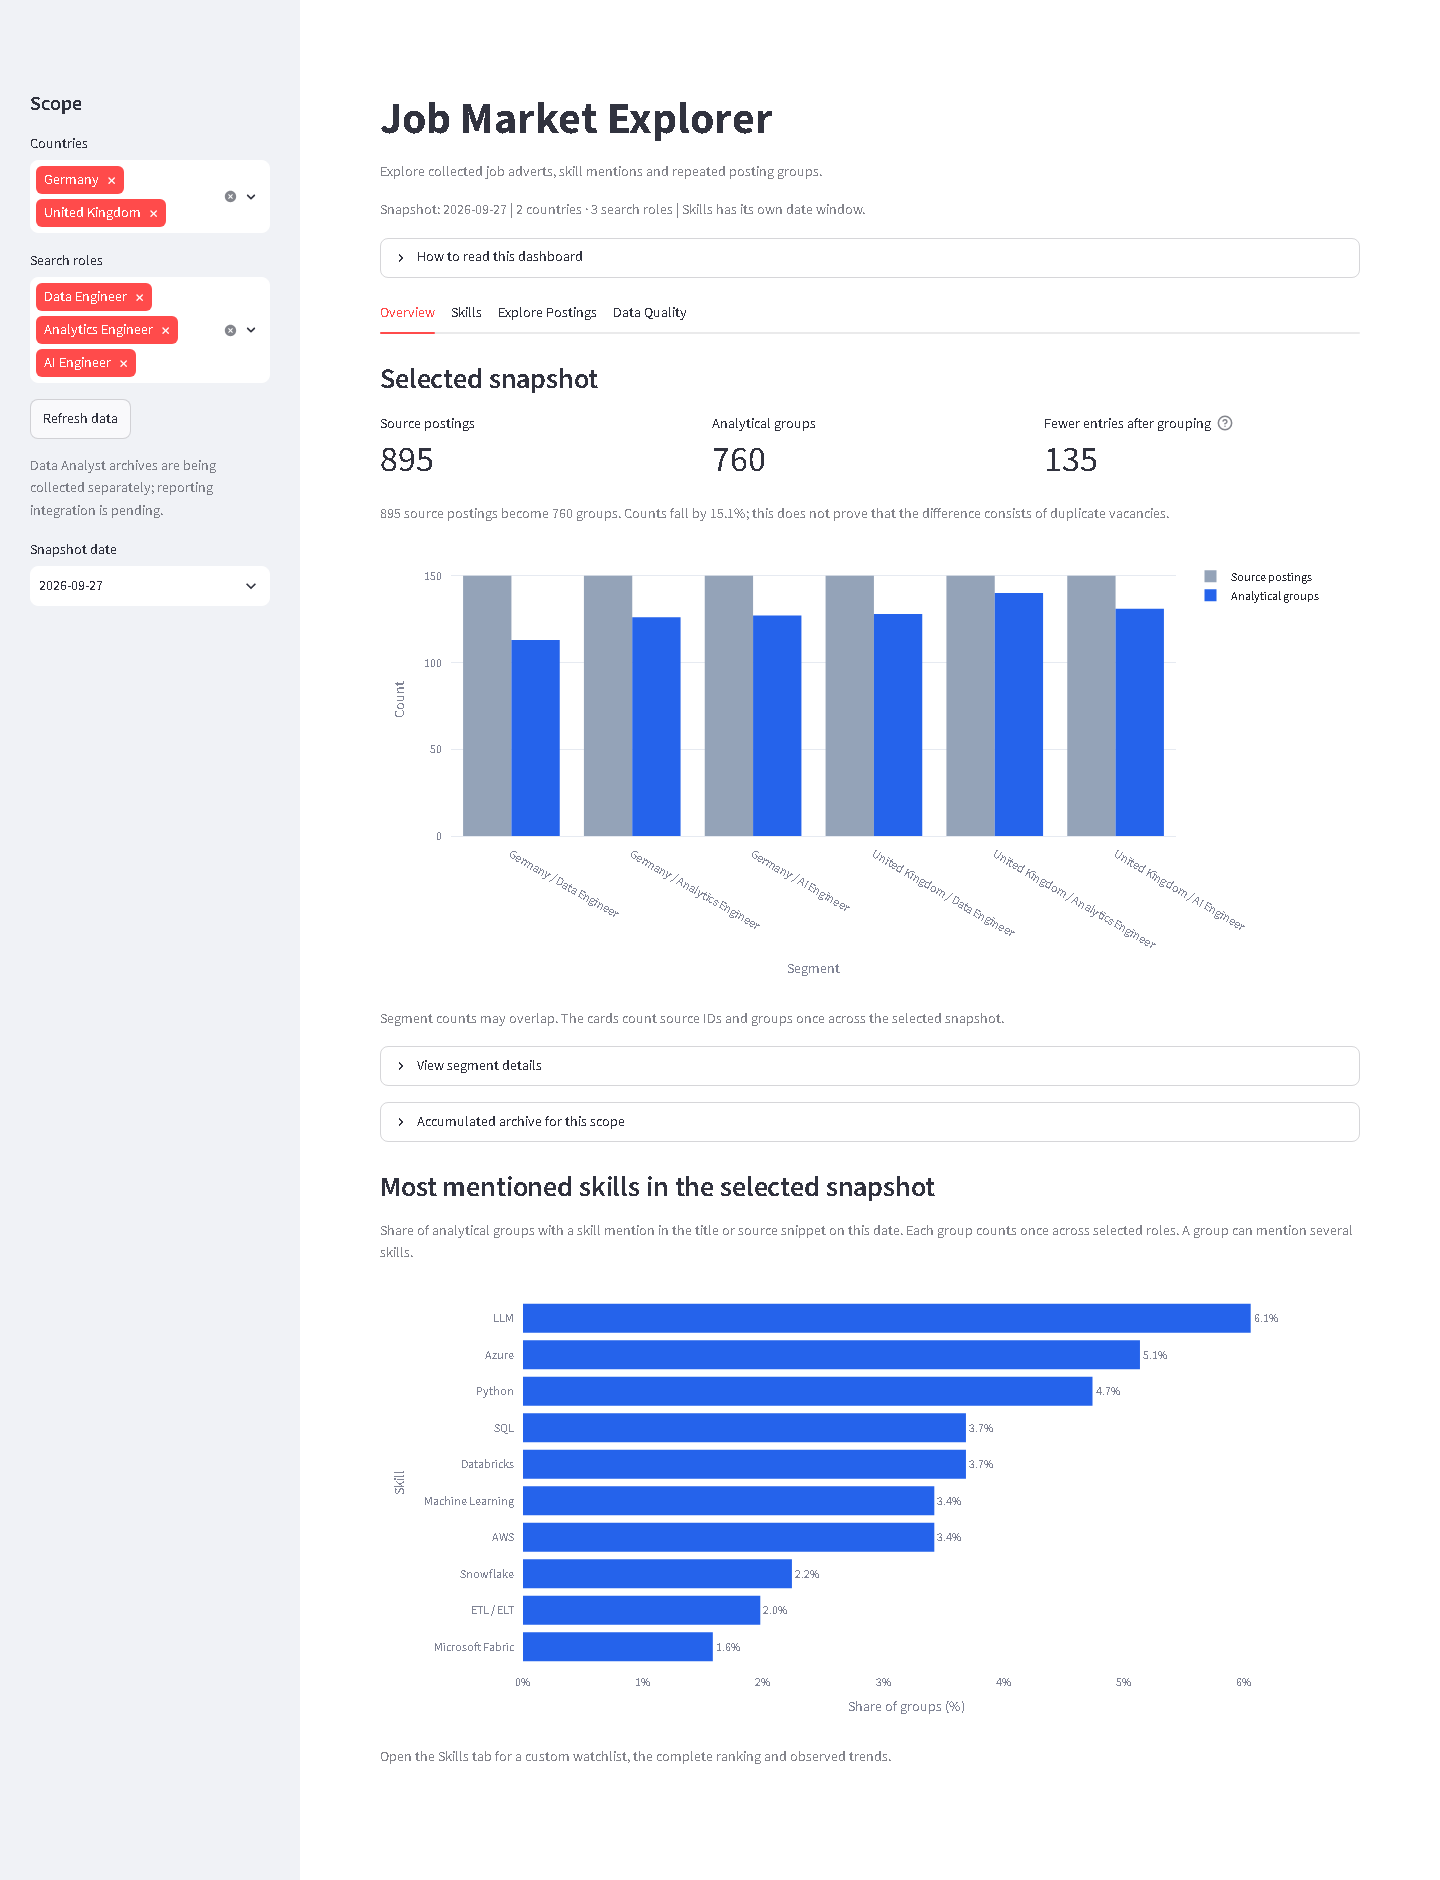
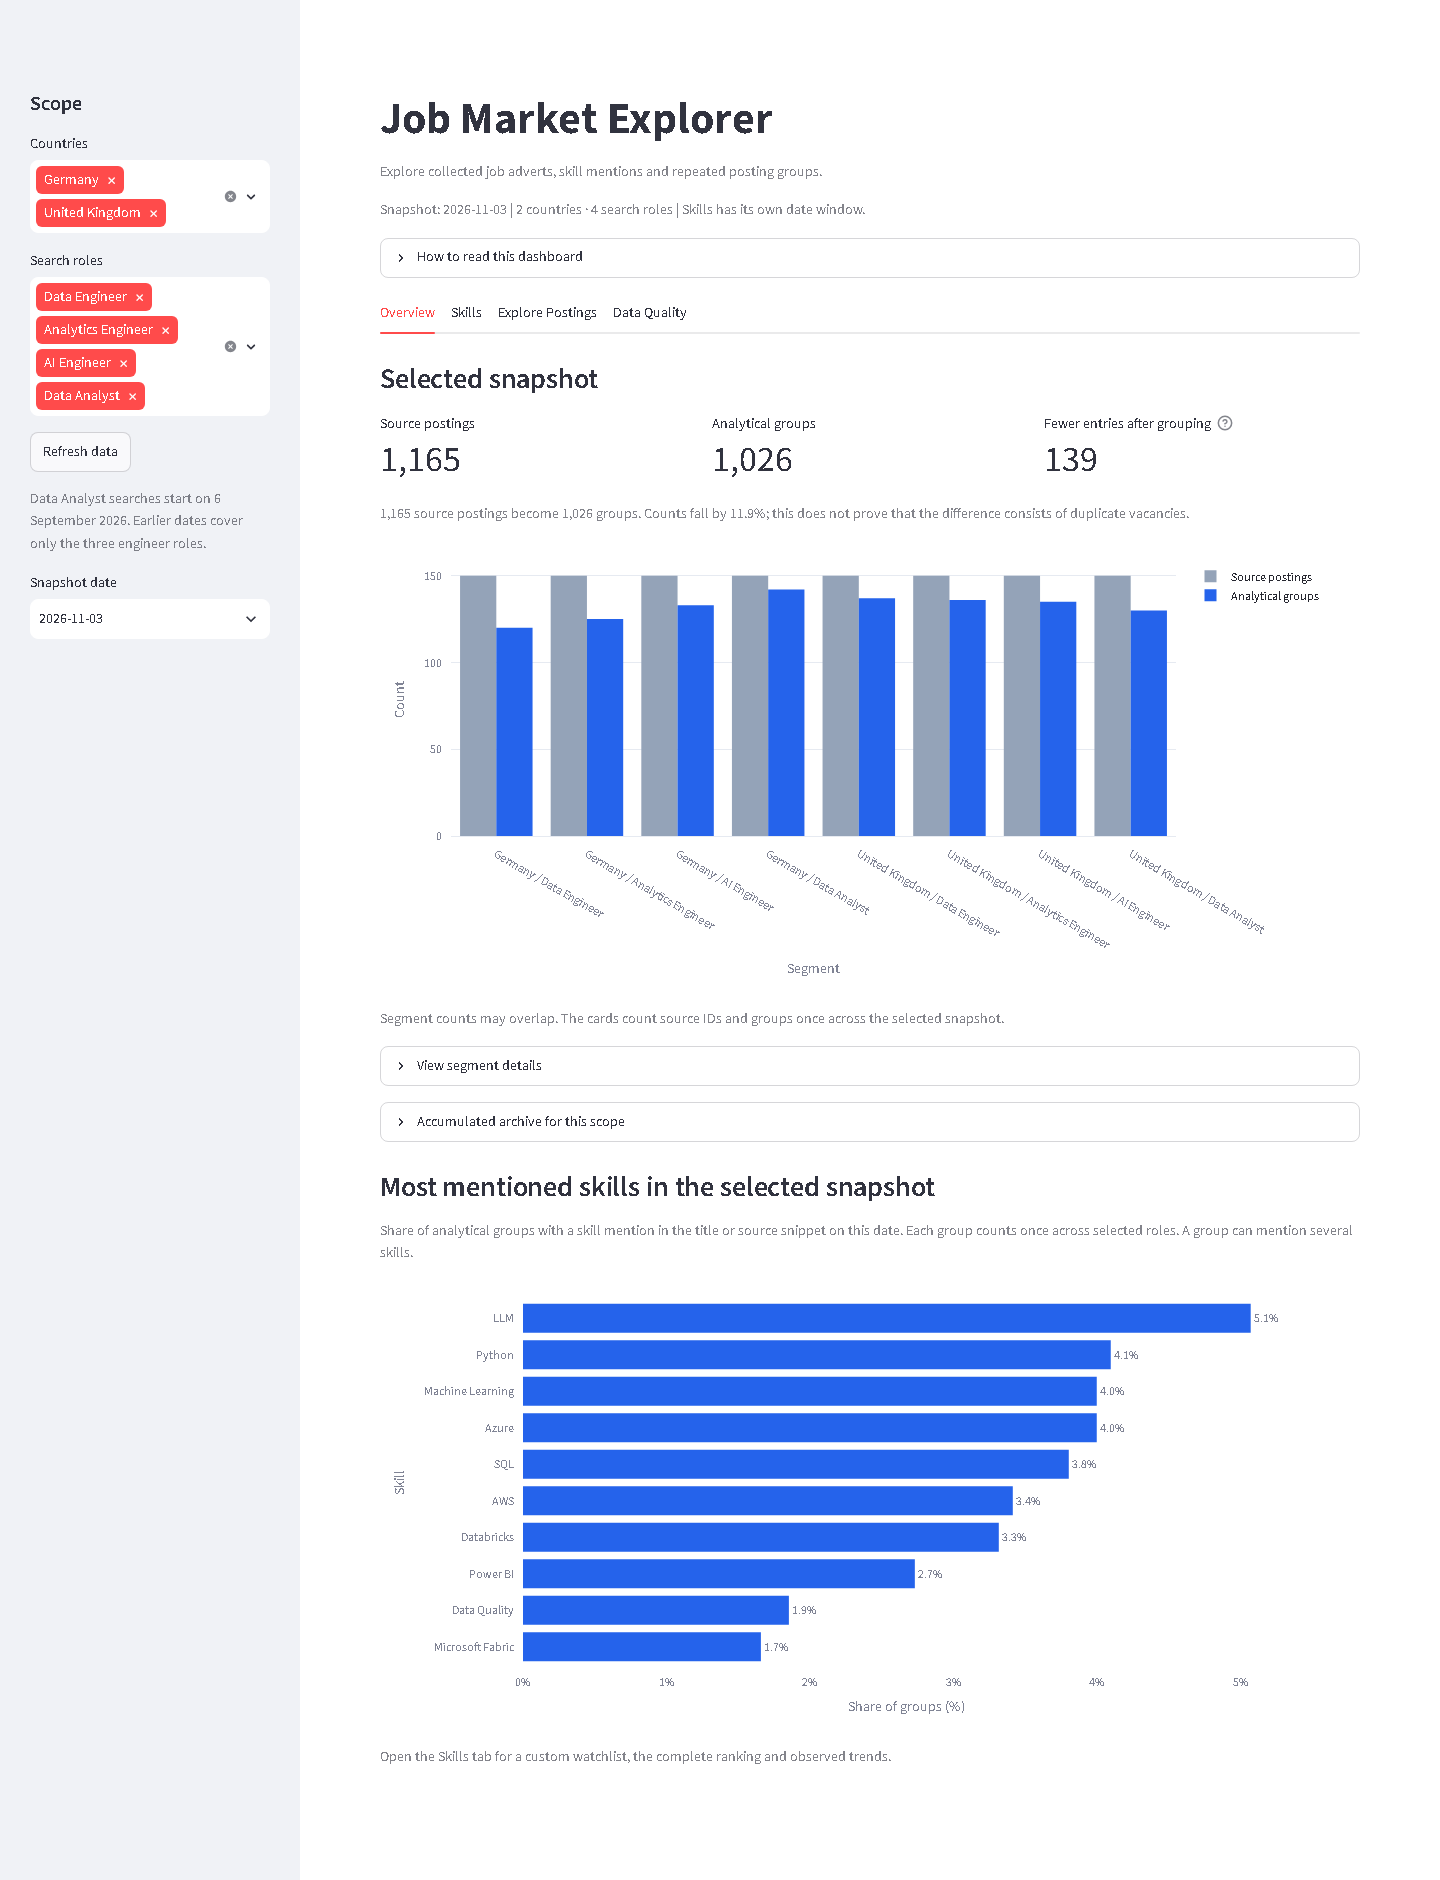
Add Data Analyst to the pipeline and dashboard

diff --git a/dashboard/check_parity.py b/dashboard/check_parity.py
@@ -10,14 +10,16 @@ import queries
 
 # Compares the SQL in queries.py with the pandas logic the dashboard used before
 # it moved to the star schema. The reference functions are copied from that
-# version of app.py. Skill labels come from dim_skills, so the corrected labels
-# do not change the tie-break order. Run from the repository root after dbt build:
+# version of app.py, with Data Analyst added to the role lists when that role joined
+# the dashboard. Skill labels come from dim_skills, so the corrected labels do not
+# change the tie-break order. Run from the repository root after dbt build:
 #   python dashboard\check_parity.py
 COUNTRIES = {"de": "Germany", "gb": "United Kingdom"}
 ROLES = {
     "data_engineer": "Data Engineer",
     "analytics_engineer": "Analytics Engineer",
     "ai_engineer": "AI Engineer",
+    "data_analyst": "Data Analyst",
 }
 POSTING_COLUMNS = ["source", "job_id", "job_title", "company_name", "location", "posted_date", "redirect_url"]
 QUALITY_COLUMNS = [
@@ -39,7 +41,7 @@ OBSERVATIONS_SQL = """
     join analytics.stg_job_postings p using (source, job_id)
     join analytics.int_job_posting_groups g using (source, job_id)
     where o.search_country in ('de', 'gb')
-      and o.search_role in ('data_engineer', 'analytics_engineer', 'ai_engineer')
+      and o.search_role in ('data_engineer', 'analytics_engineer', 'ai_engineer', 'data_analyst')
 """
 
 

diff --git a/src/load/run_postgres_load.py b/src/load/run_postgres_load.py
@@ -10,6 +10,9 @@ from jsonl_reader import read_jsonl
 from postgres_loader import insert_job_posting_observations, insert_job_postings
 
 
+ROLES = ["data_engineer", "analytics_engineer", "ai_engineer", "data_analyst"]
+
+
 def run_load(file_path: str | Path, search_role: str, search_country: str, extract_date: date) -> None:
     raw_jobs = read_jsonl(file_path)
 
@@ -49,10 +52,13 @@ def main(argv=None) -> None:
                         help="Archive date in YYYY-MM-DD format (default: today).")
     parser.add_argument("--check-only", action="store_true",
                         help="Validate all expected archives without writing to PostgreSQL.")
+    # Dates before 2026-09-06 have no Data Analyst archives; pass the other three roles to replay them.
+    parser.add_argument("--roles", nargs="+", choices=ROLES, default=ROLES,
+                        help="Roles to load (default: all four).")
     args = parser.parse_args(argv)
 
     countries = ["de", "gb"]
-    roles = ["data_engineer", "analytics_engineer", "ai_engineer"]
+    roles = list(dict.fromkeys(args.roles))
     batch = [
         (country, role, Path("data/raw/adzuna") / f"country={country}"
          / f"search_role={role}" / f"date={args.extract_date.isoformat()}" / "jobs.jsonl")

diff --git a/src/extract/run_adzuna_extract.py b/src/extract/run_adzuna_extract.py
@@ -87,9 +87,8 @@ def run_extract(country: str, search_role: str, max_pages: int = 2, results_per_
 
 def main(argv=None) -> None:
     parser = argparse.ArgumentParser(description="Collect selected job search segments.")
-    parser.add_argument("--roles", nargs="+", choices=list(SEARCH_ROLES),
-                        default=["data_engineer", "analytics_engineer", "ai_engineer"],
-                        help="Search roles to collect. Data Analyst is opt-in during archive-only collection.")
+    parser.add_argument("--roles", nargs="+", choices=list(SEARCH_ROLES), default=list(SEARCH_ROLES),
+                        help="Search roles to collect (default: all four).")
     parser.add_argument("--countries", nargs="+", choices=["de", "gb"], default=["de", "gb"])
     args = parser.parse_args(argv)
     countries = list(dict.fromkeys(args.countries))

diff --git a/dashboard/app.py b/dashboard/app.py
@@ -83,7 +83,7 @@ with st.sidebar:
     roles = st.multiselect("Search roles", list(role_names), default=list(role_names), format_func=role_names.get)
     if st.button("Refresh data"):
         st.cache_data.clear()
-    st.caption("Data Analyst archives are being collected separately; reporting integration is pending.")
+    st.caption("Data Analyst searches start on 6 September 2026. Earlier dates cover only the three engineer roles.")
 if not countries or not roles:
     st.info("Select at least one country and search role.")
     st.stop()

diff --git a/README.md b/README.md
@@ -2,7 +2,7 @@
 
 I collect data-job adverts from Germany and the UK through the Adzuna API, keep every raw response, load them into PostgreSQL and model them with dbt. A Streamlit dashboard sits on top.
 
-I built it to see which skills appear in these adverts and how repeated postings distort the counts. It also covers the less glamorous side of data work: loads that are safe to rerun, adverts that show up several times, data quality checks and slow SQL.
+I built it to see which skills appear in these adverts and how repeated postings distort the counts. Most of the work went into things a dashboard does not show: loads that can be rerun safely, adverts that turn up more than once, data quality checks and a few slow queries.
 
 **Built with:** Python · PostgreSQL · dbt Core · Streamlit · Plotly
 
@@ -12,14 +12,14 @@ I built it to see which skills appear in these adverts and how repeated postings
 - Archive validation and repeatable loading, so rerunning a load never inserts the same record twice.
 - Eleven dbt models, one seed and 133 data tests covering missing values, cleaning rules, uniqueness, relationships and count consistency.
 - A star schema for reporting: one fact table of observations, dimension tables for postings, posting groups, segments and skills, and a bridge table that links posting groups to skills.
-- A dashboard for comparing skill mentions, browsing adverts and inspecting repeated posting groups. It reads only the star schema, calculates its figures in SQL and has a check against the earlier pandas version.
+- A Streamlit dashboard for comparing skill mentions, browsing adverts and looking at repeated posting groups. Every number in it comes from SQL on the star schema.
 - SQL performance work, with every faster version checked against the original output (details below).
 
-The reporting covers Data Engineer, Analytics Engineer and AI Engineer searches in both countries. I have started collecting Data Analyst adverts too, but they are not in the dashboard yet. Collection and dbt runs are still manual.
+The reporting covers four searches in both countries: Data Engineer, Analytics Engineer, AI Engineer and Data Analyst. I only started collecting Data Analyst adverts on 6 September 2026, so that role has fewer dates than the other three. Collection and dbt runs are still manual.
 
 ## Dashboard
 
-The Overview tab compares source postings with analytical groups for the selected date and shows the most mentioned skills. Country and role filters narrow the sample.
+The Overview tab compares source postings with analytical groups for the selected date and shows the most mentioned skills. Country and role filters narrow the sample. All four roles are selected when it opens. Since Data Analyst collection started later, skill figures over several days only use dates from 6 September 2026 while that role is selected.
 
 ![Overview tab of the dashboard](docs/screenshots/dashboard_overview.png)
 
@@ -30,7 +30,7 @@ The Overview tab compares source postings with analytical groups for the selecte
 | Explore Postings | Search by job title, company or location |
 | Data Quality | Missing companies, truncated snippets, salary coverage, posting age, repeated posting groups and observed collection coverage |
 
-The skill dictionary includes tools such as Databricks, Microsoft Fabric and Power BI. They are terms found in adverts, not tools used to build this pipeline.
+The skill dictionary includes tools such as Databricks, Microsoft Fabric and Power BI because they come up in adverts. I did not use them to build this pipeline.
 
 ## Architecture
 
@@ -54,6 +54,8 @@ The dashboard reads only the star schema. Its queries in [dashboard/queries.py](
 
 On 27 September 2026 I moved the dashboard's calculations from pandas to SQL on the star schema. [dashboard/check_parity.py](dashboard/check_parity.py) keeps a copy of the earlier pandas logic and compares it with the new queries for all 21 combinations of countries and roles, on every observed snapshot date. All 9,989 comparisons matched, including the order of skill rankings and posting lists, and shares and averages were exactly equal. When I broke five of the rules on purpose, the check caught every change.
 
+Adding Data Analyst in November took the check up to 45 country and role combinations. On 3 November 2026 it ran 18,853 comparisons with no differences.
+
 ## Backup and restore check
 
 On 7 September 2026 I restored a PostgreSQL backup into a separate test database and compared it with the source. All 11 tables matched, including duplicate rows, and so did the table structures, constraints, indexes, views, ownership and sequence state. The comparisons were read-only and left the source database untouched. The restore ran on the same PostgreSQL 18.4 server, and the backup archive is kept outside Git.
@@ -74,14 +76,14 @@ For the latest-postings model, the query plan showed PostgreSQL estimating 1 row
 
 The skill table itself was still slow to build. PostgreSQL inlines a CTE that is used only once, so the text cleaning (lower-casing and `regexp_replace`) ended up inside the join and ran again for every posting and skill pair. The model now declares that CTE as `MATERIALIZED`, so each posting's text is cleaned once. On 27 September 2026 the skill table build fell from 28.58 s to 2.78 s, and the new table matched the old one row for row in both directions.
 
-Run dbt after loading new postings or changing the dictionary.
+Because the matches are stored, dbt has to run again after new postings are loaded or the dictionary changes.
 
 <details>
 <summary>Data handling and calculation details</summary>
 
 ### Collection and loading
 
-Each default run requests three pages of up to 50 results for six country and role segments. That is up to 900 returned records, which is not the same as 900 distinct adverts or new observations.
+Each default run asks for three pages of up to 50 results for eight country and role segments. That is up to 1,200 records, but the same advert can come back in more than one search, so a run has fewer distinct adverts than records.
 
 Archives use this layout:
 
@@ -94,7 +96,7 @@ data/raw/adzuna/country=XX/search_role=ROLE/date=YYYY-MM-DD/
 - An existing archive or status file blocks another extraction for that segment and date.
 - JSONL is written to a temporary file first and never replaces an existing archive.
 - Status files record the requested pages, records per page, completion status, description coverage and an archive checksum.
-- The loader validates all six expected archives before it loads any segment.
+- The loader validates all eight expected archives before it loads any segment.
 - Older archives without a status file are accepted with a warning, because their page completion cannot be verified.
 - Database constraints and `ON CONFLICT DO NOTHING` stop repeated postings and observations from being inserted again.
 - Loading commits one segment at a time rather than the whole batch in one transaction. If the database fails midway, earlier segments stay loaded, and a rerun completes the rest safely.
@@ -103,7 +105,7 @@ data/raw/adzuna/country=XX/search_role=ROLE/date=YYYY-MM-DD/
 
 The raw catalogue stores one row per `source + job_id`. Observations record each date a posting appeared in a country and role search.
 
-Analytical groups combine source, country, normalised company, normalised title and a hash of the description. Location is left out on purpose, so the same advert posted in several cities falls into one group. Matching text can also mean reposts or separate vacancies with similar wording, so **groups are not verified unique vacancies**. The gap between source and group counts is not a confirmed duplicate count or a measure of market inflation.
+Analytical groups combine source, country, normalised company, normalised title and a hash of the description. Location is left out on purpose, so the same advert posted in several cities falls into one group. Matching text can also mean reposts or separate vacancies with similar wording, so a group is not a verified unique vacancy, and the gap between source and group counts is not a confirmed duplicate count.
 
 ### Data cleaning and quality flags
 
@@ -112,7 +114,7 @@ Raw API values stay unchanged. Cleaning happens in dbt, so the source payload ca
 - Missing company names show as `Unknown`, with `company_name_was_missing` set. These records get job-specific grouping keys, so they are never merged by accident.
 - Non-positive salary bounds are treated as missing in the cleaned fields. The original values stay in `source_salary_min` and `source_salary_max`.
 - Currency is only assigned when there is usable salary data. A missing source currency is inferred as EUR for Germany and GBP for the UK, and `salary_currency_was_inferred` keeps that lineage.
-- Posting age and a 90-day stale flag are quality signals, not evidence that a vacancy has closed. Training, internship and placement-style titles are flagged rather than deleted.
+- Posting age and a 90-day stale flag are only quality signals, since an old advert can still be open. Training, internship and placement-style titles are flagged rather than deleted.
 - Description length, snippet status and likely truncation are exposed as columns for quality monitoring.
 
 ### Skill mentions
@@ -180,25 +182,24 @@ python src\load\run_postgres_load.py --date 2026-09-06 --check-only
 python src\load\run_postgres_load.py --date 2026-09-06
 ```
 
-Data Analyst collection is opt-in and kept outside the reporting workflow for now:
+Dates before 6 September 2026 have no Data Analyst archives, so replay them with the other three roles:
 
 ```powershell
-python src\extract\run_adzuna_extract.py --roles data_analyst
+python src\load\run_postgres_load.py --date 2026-08-29 --roles data_engineer analytics_engineer ai_engineer
 ```
 
-Use `--countries gb` to collect only UK archives. The loader still expects all six default segments for its chosen date and does not support country or role selection yet.
+Both scripts take `--roles` to work on fewer roles. The extractor also takes `--countries gb` to collect only UK archives, while the loader always loads both countries.
 
 Generate the dbt documentation with `dbt docs generate --project-dir .\dbt_job_market`. Raw-layer checks are in [sql/002_raw_data_quality_checks.sql](sql/002_raw_data_quality_checks.sql).
 
 ## Limitations
 
-Adzuna is one source with a capped sample. Collection is manual, so the dates are uneven. Training and placement adverts are flagged but not excluded. I do not compare salaries: coverage is incomplete, some amounts are predicted by Adzuna, and an inferred currency says nothing about pay period or what the figure includes. API descriptions are snippets, not guaranteed full advert text.
+Adzuna is one source with a capped sample. Collection is manual, so the dates are uneven. Training and placement adverts are flagged but not excluded. I do not compare salaries: coverage is incomplete, some amounts are predicted by Adzuna, and an inferred currency says nothing about pay period or what the figure includes. API descriptions are only snippets of the full advert.
 
 ## Next steps
 
 1. A Power BI report on the star schema that uses the same counting rules as the dashboard, with a check that both give the same numbers.
-2. Data Analyst adverts in the loader, models and dashboard once enough dates are archived.
-3. Later: scheduled runs, a Docker setup and CI checks.
+2. Later: scheduled runs, a Docker setup and CI checks.
 
 Secrets, raw archives, backups, logs, virtual environments and generated dbt artifacts are excluded from Git.
 
